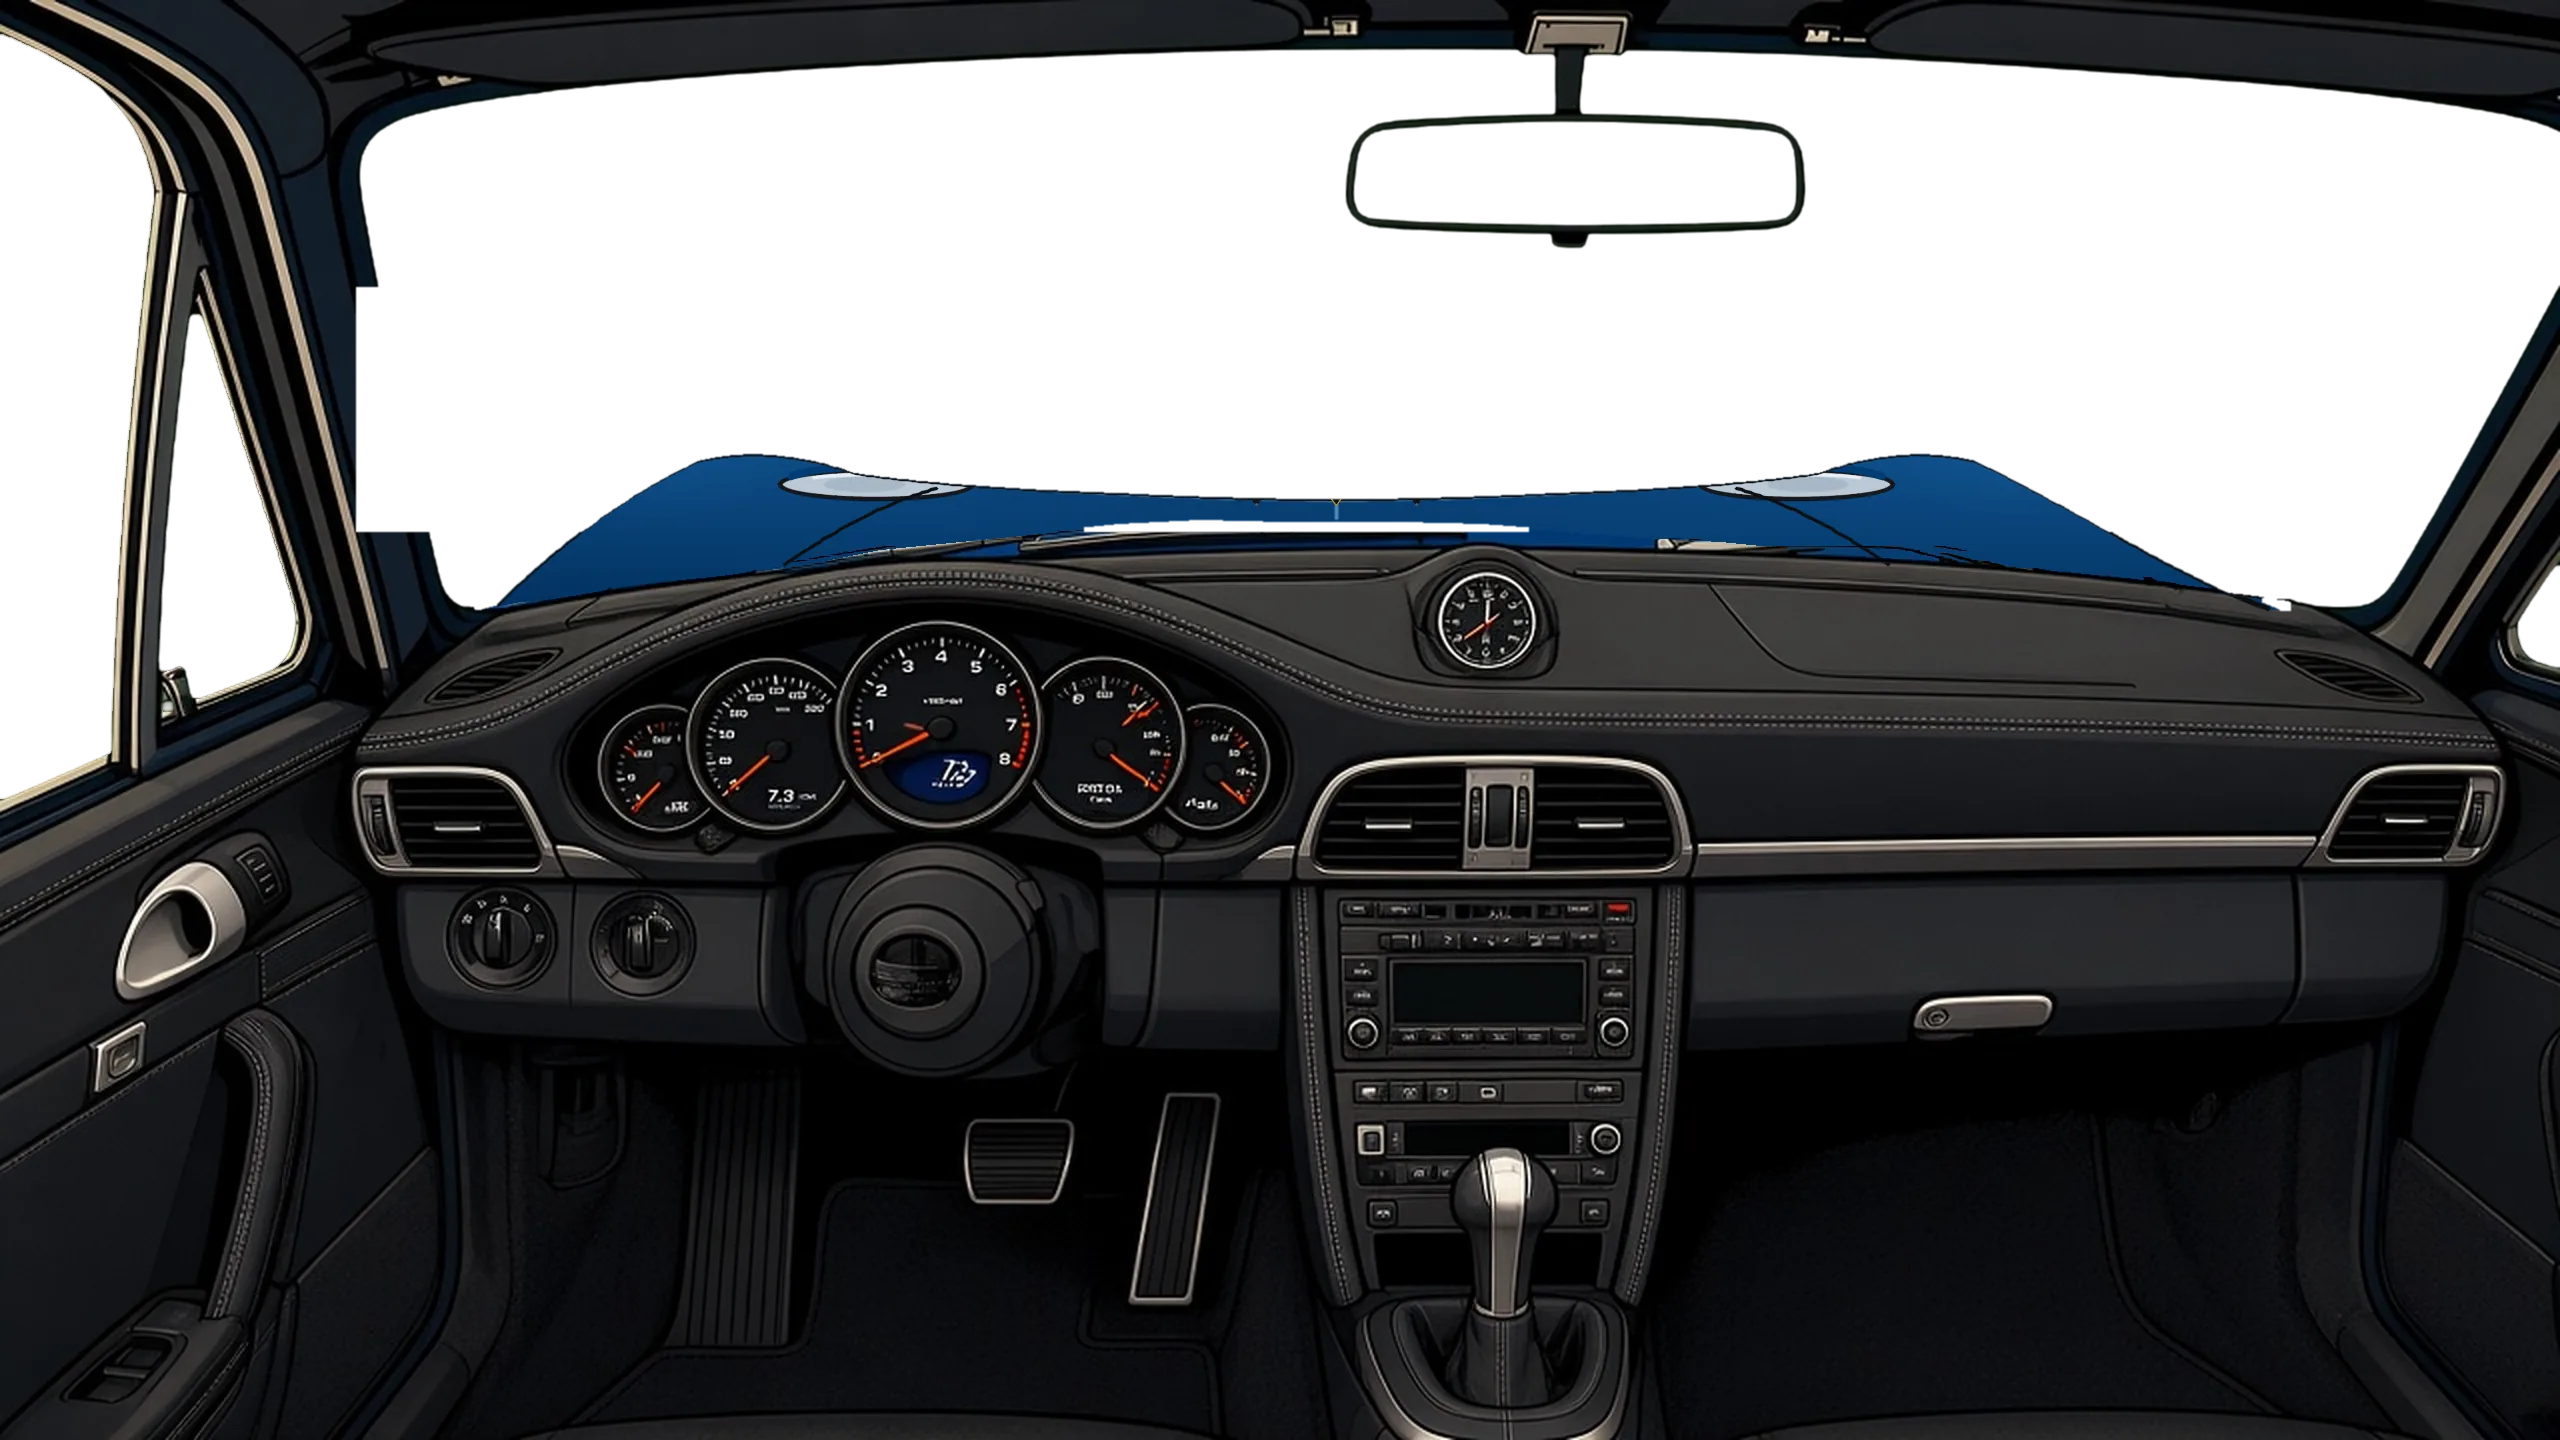
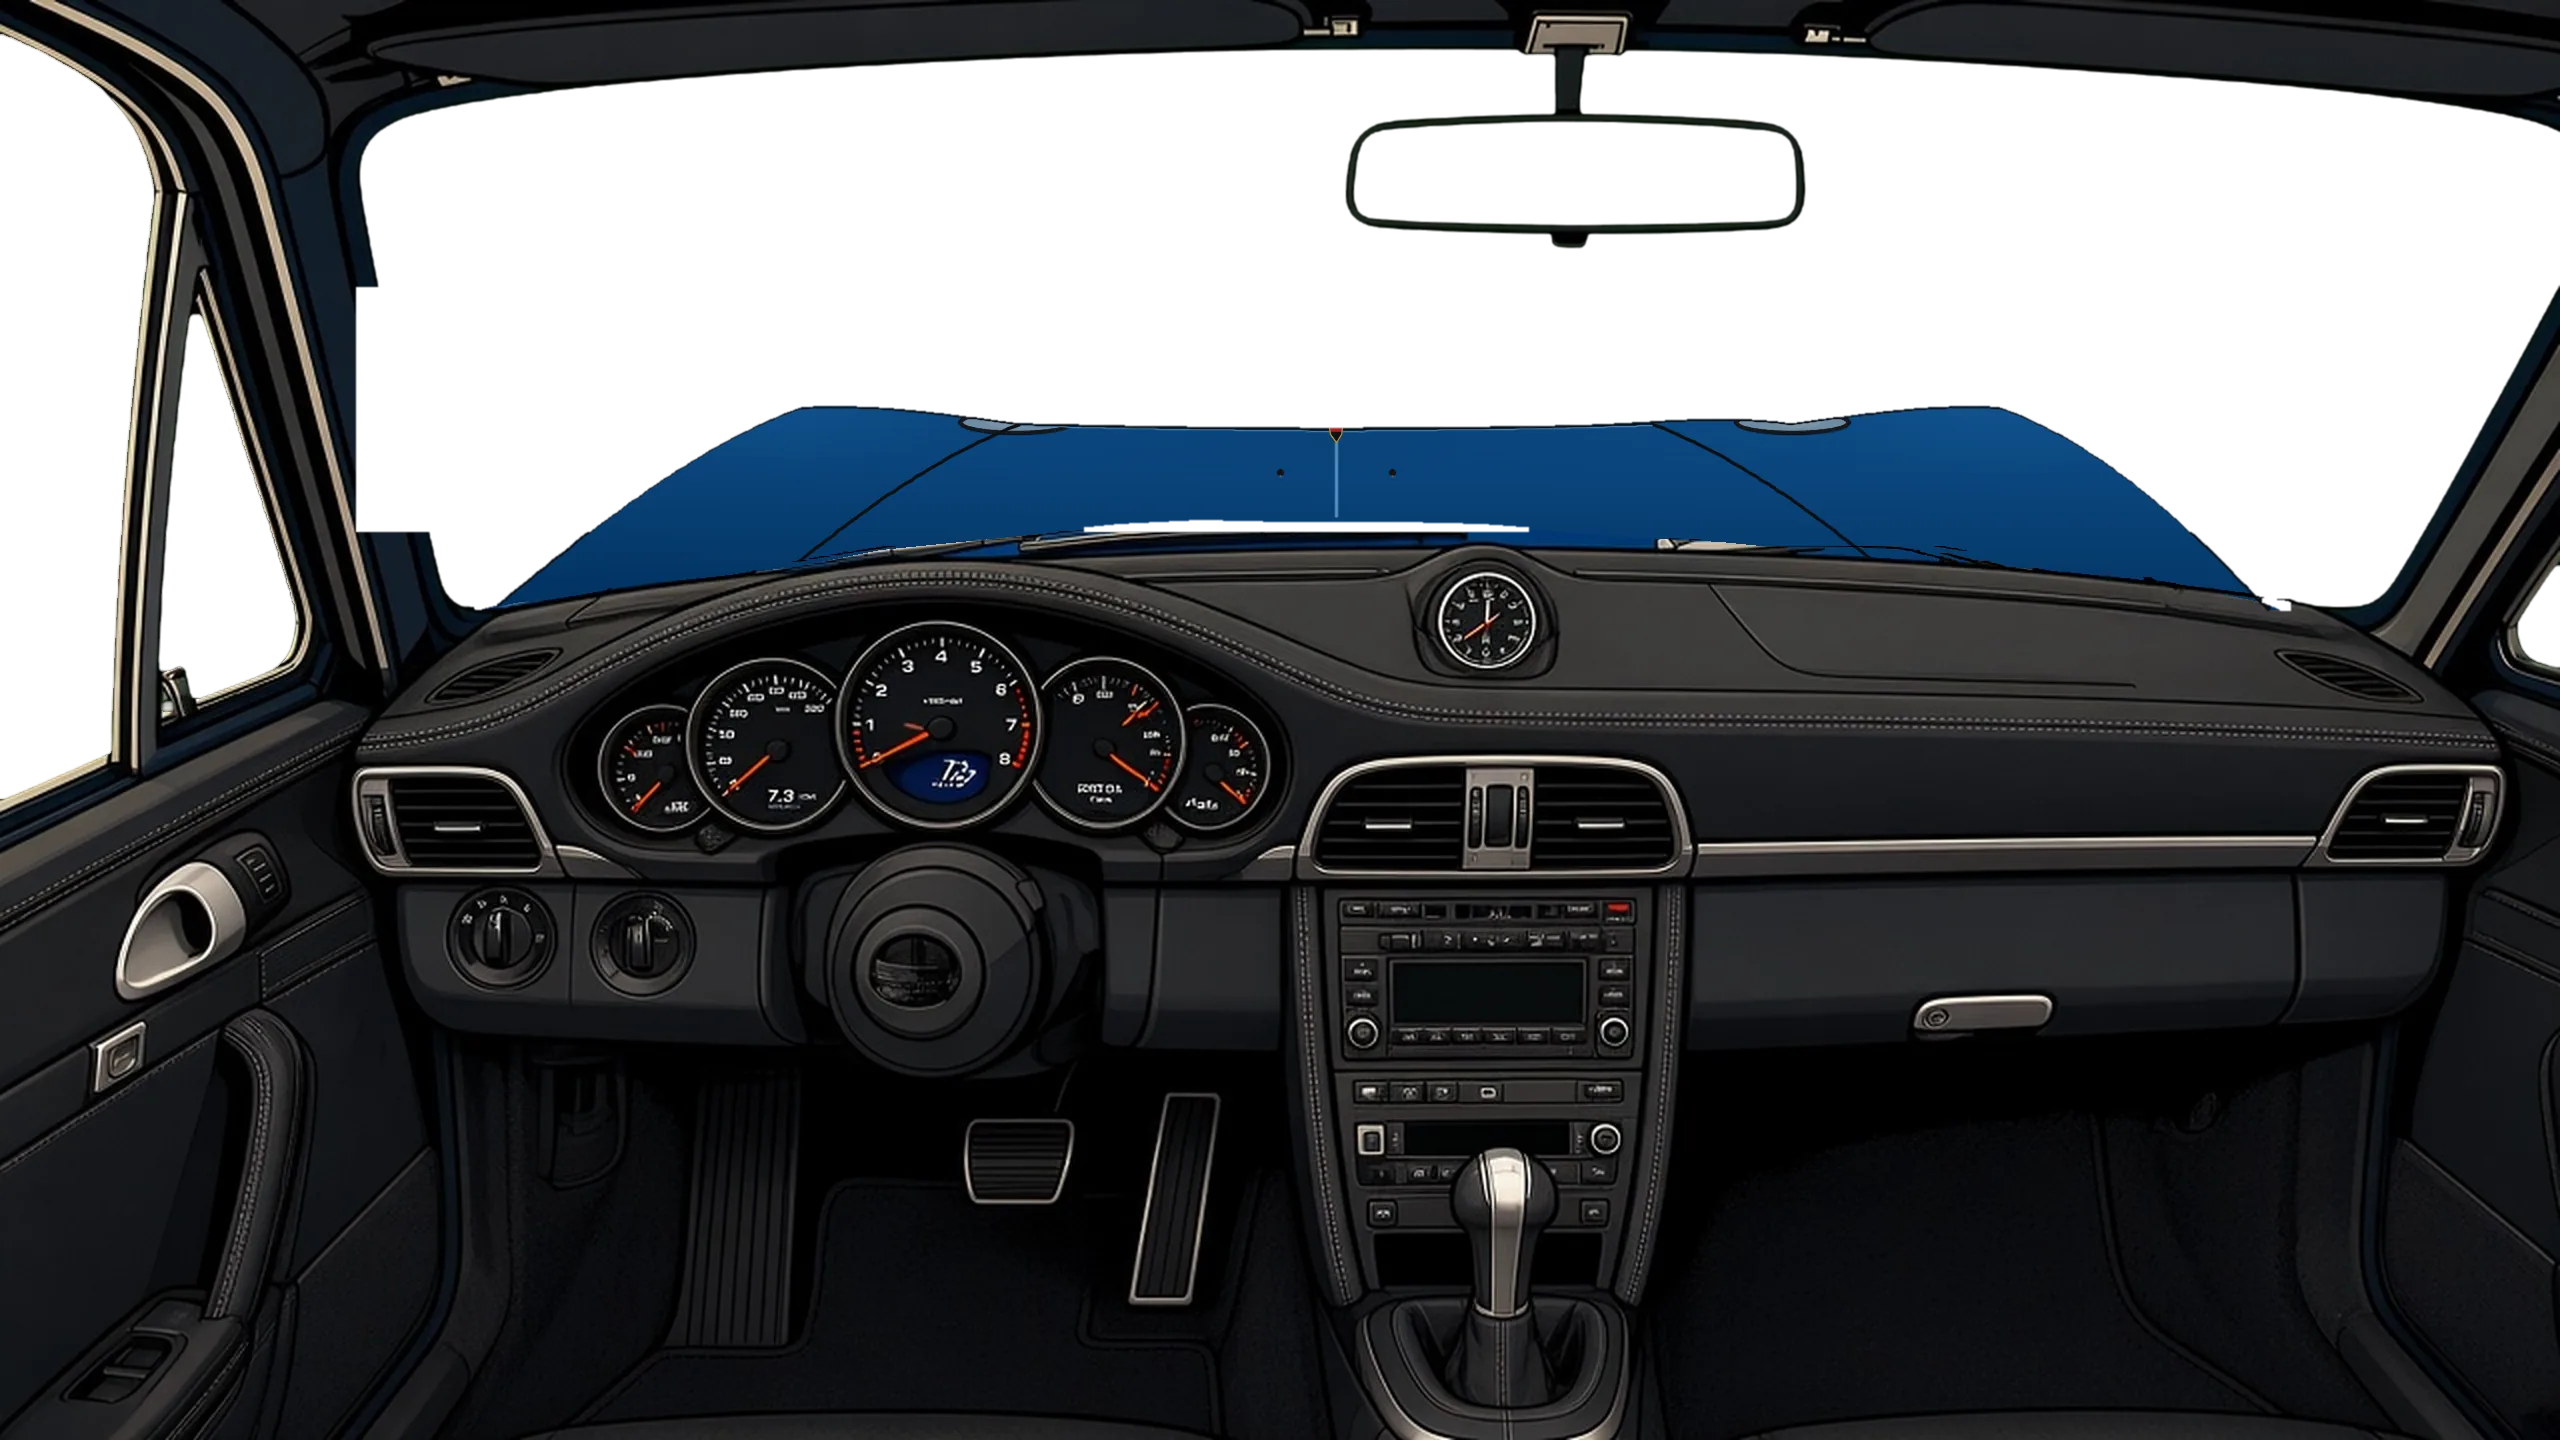
Street Rod v1.11.23: 911 bonnet length from the driver's seat; top speed confirmed 288 km/h
The 997.1 C4S bonnet is now a long, almost-flat lid against driver's-eye
photos and official dimensions, not a thin sliver. Official C4S manual
top speed is 288 km/h (Porsche 2006 press kit); physics already reaches
it in sixth. Do not publish reference audio.

Changed region(s): [[0.25, 0.2812, 0.875, 0.4062], [0.2188, 0.3438, 0.25, 0.375], [0.1875, 0.375, 0.2188, 0.4062]]

diff --git a/index.html b/index.html
@@ -10,7 +10,7 @@
 <link rel="icon" href="data:,">
 <link rel="manifest" href="assets/manifest.webmanifest">
 <link rel="apple-touch-icon" href="assets/icon-180.png">
-<title>Street Rod: engine sound + driving demo (v1.11.22)</title>
+<title>Street Rod: engine sound + driving demo (v1.11.23)</title>
 <style>
 * { box-sizing: border-box; -webkit-tap-highlight-color: transparent; }
 html, body { margin: 0; background: #1a120c; color: #eadfc6; font: 15px/1.45 Georgia, 'Times New Roman', serif; }
@@ -9475,6 +9475,7 @@ var ProjectHistory = {
       { v: "v1.9", date: "2026-11-11", status: "done", headline: "The 1953 BRM P30 Mk II V16 joins the garage", text: "The 1953 BRM P30 Mk II V16 joins the GT350 and the Cadillac. Photo-derived British Racing Green art in Visuals v4 (flat) and v5 (ink); v1, v2 and v3 fall back to the flat cockpit (there is no drawn or 3D BRM). A period 5-speed lever, stalk rear-view mirrors and Smiths / ribbon-tach sweeps sit in the cockpit; the chase view shows the P30 Mk II’s two banks of short exhaust stubs. The sound is a real-time port of the BRM v8 model (additive half-orders plus supercharger whine at 8.30× crank), in the AudioWorklet and the ScriptProcessor fallback, including on older iPads. The GT350 and Cadillac are unchanged." },
     ] },
     { title: "Driving and controls", items: [
+      { v: "v1.11.23", date: "2026-11-14", status: "done", headline: "911 top speed checked: the official C4S manual figure is 288 km/h", text: "The 911 Carrera 4S (3.8 L, 355 PS, six-speed manual) was checked against Porsche's own 29 August 2006 product description for the 997.1 Carrera 4 and 4S. The official top speed is 288 km/h (179 mph), and 0–100 km/h is 4.8 s. 280 km/h is the Carrera 4 (3.6 L) manual figure, and also the Tiptronic S 4S figure; 295 km/h is not a factory C4S number. The game already reaches 288 km/h in sixth, below the limiter, so the gearing and the physics are unchanged." },
       { v: "v1.11.20", date: "2026-11-14", status: "done", headline: "In the garage you can rev the engine; shifts stay locked", text: "In both garage positions the car stays parked in neutral (N on the Cadillac’s Hydra-Matic). The gas pedal, the up arrow and the on-screen GAS button free-rev the engine against its own inertia, up to the rev limiter; the car does not move. Shift up and down (the keys, the on-screen buttons and the selector) are disabled and greyed out while you are in the garage." },
       { v: "v1.11.19", date: "2026-11-14", status: "done", headline: "A garage start-up view, with a short garage reverb", text: "From the Position menu you can now put the car in a one-car garage, heard from behind or from the cabin (V switches between those two while you stay in the garage). The garage is an acoustic chamber: early reflections from the walls, floor and ceiling, and a short reverb (about 0.6 s). The GT350, the Cadillac and the 911 show their brake lights while they sit there; the BRM, which had no onboard electric starter, is already running and has no brake lights. A link with ?view=garage opens it. The desert road views are unchanged. The reverb uses a short native impulse, so it stays light in the Tesla in-car browser." },
       { v: "v1.11.15", date: "2026-11-14", status: "done", headline: "911 power curve no longer exceeds the official 355 PS peak", text: "Each car’s modelled power and torque was checked against the factory figures. The GT350 and the Cadillac match their SAE gross ratings (306 hp and 329 lb-ft, and 325 hp and 430 lb-ft) at the official engine speeds. The BRM is within about one horsepower of the sourced figure of around 460 hp at 11,000 rpm. The 911 already met the official DIN figures of 355 PS at 6,600 rpm and 400 N·m at 4,600, but past 6,600 rpm the curve had been a little high, so power rose to about 359 PS at 7,000. Those two points were lowered so power does not go above 355 PS after the rated peak. 0–100 km/h is still 4.8 s, and top speed in sixth is still the official 288 km/h." },
@@ -9486,6 +9487,7 @@ var ProjectHistory = {
       { v: "v1", date: "2026-11-11", status: "done", headline: "Driving demo: gearbox, weight, brakes and gauges", text: "Driving demo: gearbox and Hydra-Matic, weight, brakes with lock-up and fade, rev counter and odometer." },
     ] },
     { title: "Visuals and engine bay", items: [
+      { v: "v1.11.23", date: "2026-11-14", status: "done", headline: "911 bonnet is now a long 997.1 lid from the driver's seat", text: "The 911 bonnet, as you see it from the driver's seat, was still too short: the front edge sat only a sliver above the cowl, so the lid looked like a thin W and the headlights sat too close. It is now a long, almost-flat 997.1 Carrera 4S lid, drawn against driver's-eye photographs and the official 2005–2008 coupe dimensions (length 4,427 mm, width 1,852 mm, height 1,300 mm): a shallow centre crease, the front fenders a little higher than the lid, small foreshortened oval lamps at the far front corners, and a sharp leading edge closer to the horizon. The cowl, wipers, dash and road camera are unchanged. Ink and Flat." },
       { v: "v1.11.10", date: "2026-11-13", status: "done", headline: "The 911 steering wheel now sits on the steering column", text: "The 911 Carrera 4S steering wheel now sits on the end of the steering column in the cockpit picture, as it does in a real 997. Before, the wheel sat too low — down by the pedals — so you could see the empty column opening in the dashboard through the wheel, and the two did not meet. The crest is now on the column housing under the gauges, and the wheel turns about that point. The size of the wheel is unchanged. Ink and Flat." },
       { v: "v1.11.8", date: "2026-11-13", status: "done", headline: "Steering columns now follow the real cars, and the wheel sits at the end", text: "The painted steering column of each car now follows the real cockpit — its direction, tilt and length — and the steering wheel sits at the end of that column, facing the right way. On the Cadillac the painted shaft had been pointing at the floor while the wheel faced you; that long downward tube is gone, and the short column comes out of the dash toward the driver, as on a real Series 62. The BRM had no painted column; it now has a short metal tube from the wheel into the scuttle, slightly to the right of centre, as on the Type 15 at Beaulieu. The GT350 and 911 columns were already short and aimed at the driver; the GT350 wheel is tilted a little so it stays square to the column. Wheel sizes are the same. The Cadillac column shifter and the BRM's front wheels still work as before." },
       { v: "v1.11.7", date: "2026-11-13", status: "done", headline: "Steering wheels now sit on the column in the cockpit pictures", text: "In the driver's view, the steering wheel of each car now sits on the steering column in the cockpit picture, and turns about that point. The GT350 and Cadillac wheels were a little to the left of the painted boss; they are now centred on it. The 911 wheel lines up with the column opening in the dashboard, and the crest stays on that axis when you turn. On the BRM P30, photographs of the real car confirm that the wheel sits slightly to the right of centre, as Wim thought; the live wheel is now in that place. The BRM's front wheels still turn with the steering wheel." },
